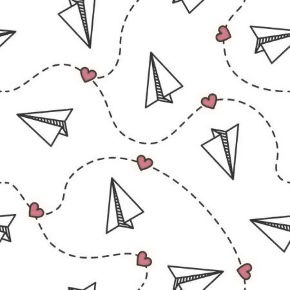
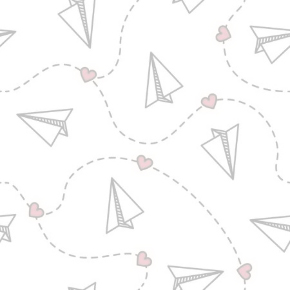
welcome screen, color pallete fully working

diff --git a/js/main.js b/js/main.js
@@ -6,6 +6,7 @@ var brushSize = "10";
 var selectedColor = "black";
 var brushType = "Squared";
 var mybrush = [brushSize, selectedColor, brushType];
+var blockingDiv = document.getElementById("blockingDiv");
 
 
 paintapp.start = function() {
@@ -13,6 +14,8 @@ paintapp.start = function() {
 };
 
 paintapp.bindMenuActions = function() {
+    var paintButton = document.getElementById("paint");
+    paintButton.addEventListener("click", paintapp.paintButton)
     var undo = document.getElementById("undo");
     undo.addEventListener("click", paintapp.undo);
     var redo = document.getElementById("redo");
@@ -49,31 +52,92 @@ paintapp.bindMenuActions = function() {
 
     // ---------------------------------
     var color1 = document.getElementById("color1");
-    color1.addEventListener("click", paintapp.color(this.id))
+    color1.addEventListener("click", paintapp.color)
+
+    var color2 = document.getElementById("color2");
+    color2.addEventListener("click", paintapp.color)
+
+    var color3 = document.getElementById("color3");
+    color3.addEventListener("click", paintapp.color)
+
+    var color4 = document.getElementById("color4");
+    color4.addEventListener("click", paintapp.color)
+
+    var color5 = document.getElementById("color5");
+    color5.addEventListener("click", paintapp.color)
+
+    var color6 = document.getElementById("color6");
+    color6.addEventListener("click", paintapp.color)
+
+    var color7 = document.getElementById("color7");
+    color7.addEventListener("click", paintapp.color)
+
+    var color8 = document.getElementById("color8");
+    color8.addEventListener("click", paintapp.color)
+
+    var color9 = document.getElementById("color9");
+    color9.addEventListener("click", paintapp.color)
+
+    var color10 = document.getElementById("color10");
+    color10.addEventListener("click", paintapp.color)
+
+    var color11 = document.getElementById("color11");
+    color11.addEventListener("click", paintapp.color)
+
+    var color12 = document.getElementById("color12");
+    color12.addEventListener("click", paintapp.color)
+
+    var color13 = document.getElementById("color13");
+    color13.addEventListener("click", paintapp.color)
+
+    var color14 = document.getElementById("color14");
+    color14.addEventListener("click", paintapp.color)
+
+    var color15 = document.getElementById("color15");
+    color15.addEventListener("click", paintapp.color)
+
+    var color16 = document.getElementById("color16");
+    color16.addEventListener("click", paintapp.color)
+
+    var color17 = document.getElementById("color17");
+    color17.addEventListener("click", paintapp.color)
+
+    var color18 = document.getElementById("color18");
+    color18.addEventListener("click", paintapp.color)
+
+    var color19 = document.getElementById("color19");
+    color19.addEventListener("click", paintapp.color)
+
+    var color20 = document.getElementById("color20");
+    color20.addEventListener("click", paintapp.color)
 
 };
+
+paintapp.paintButton = function() {
+    blockingDiv.style.display = "none";
+    // delay it 3 seconds?
+}
+
 paintapp.draw = function() {
     var newDiv = document.createElement("div");
     newDiv.style.backgroundColor = selectedColor;
     newDiv.style.width = "10px";
     newDiv.style.height = "10px";
+    newDiv.style.opacity = 1;
     canvas.appendChild(newDiv);
 }
 
-paintapp.color = function(someID) {
-    var thisButton = document.getElementById(someID);
-    console.log(thisButton);
-    console.log("hola");
-    var target = document.getElementsByClassName("circle");
-    for (var i = 0; i < target.length; i++) {
-        if (target[i].id !== someID)
-            target[i].style.opacity = .7;
+paintapp.color = function(event) {
+    var thisButton = document.getElementById(event.target.id);
+    thisButton.style.opacity = 1;
+    var style = getComputedStyle(thisButton);
+    var backgroundColor = style.backgroundColor;
+    selectedColor = backgroundColor;
+    var loopForOpacity = document.getElementsByClassName("circle");
+    for (var i = 0; i < loopForOpacity.length; i++) {
+        if (loopForOpacity[i].id !== event.target.id)
+            loopForOpacity[i].style.opacity = .7;
     }
-
-    // $(".circle").css("opacity", 1);
-    // thisButton.style.opacity = 1;
-    // selectedColor = thisButton.style.backgroundColor;
-    // console.log(selectedColor)
 }
 
 paintapp.brushsize = function() {
@@ -92,10 +156,10 @@ paintapp.save = function() {
     localStorage.setItem(file, fileName);
 };
 paintapp.load = function() {
-    var load = prompt("Please enter the name of your saved file");
-    var inputName = localStorage.getItem(loadName);
+    var loadfile = prompt("Please enter the name of your saved file");
+    var inputName = localStorage.getItem(loadfile);
     if (inputName != null) {
-        canvas.innerHTML = localStorage.getItem(loadName);
+        canvas.innerHTML = localStorage.getItem(loadfile);
     } else {
         alert("Invalid name");
         load();

diff --git a/Paint.html b/Paint.html
@@ -23,7 +23,7 @@
     <!--BOOTSTRAP 4-->
 
     <!--FONTS-->
-    <link href="https://fonts.googleapis.com/css?family=Raleway:400,500,600,800&display=swap" rel="stylesheet">
+    <link href="https://fonts.googleapis.com/css?family=Fredoka+One&display=swap" rel="stylesheet">
     <!--FONTS-->
 
     <!--CSS-->
@@ -33,7 +33,11 @@
 </head>
 
 
-<body>
+<body class="bkg-primary">
+    <div style="display:visible" id="blockingDiv">
+        <button id="paint">PAINT!</button>
+    </div>
+
     <div class="container-flex">
         <!-------------------------TOOL PALLETTE ------------------------->
 
@@ -86,21 +90,23 @@
 
         <!------------------------- CANVAS -------------------------->
         <!-- gral background -->
-        <div class="padding5px bkg-primary text-center d-flex align-items-center justify-content-center">
-            <div id="canvas">
 
+        <div class="row padding5px text-center justify-content-center align-items-center">
+            <div class="col-12 d-flex justify-content-center align-items-center padding5px">
+                <div id="canvas">
+                </div>
             </div>
-
-
         </div>
-        <!--BOOTSTRAP JAVASCRIPT-->
-        <script src="https://code.jquery.com/jquery-3.3.1.slim.min.js" integrity="sha384-q8i/X+965DzO0rT7abK41JStQIAqVgRVzpbzo5smXKp4YfRvH+8abtTE1Pi6jizo" crossorigin="anonymous"></script>
-        <script src="https://cdnjs.cloudflare.com/ajax/libs/popper.js/1.14.7/umd/popper.min.js" integrity="sha384-UO2eT0CpHqdSJQ6hJty5KVphtPhzWj9WO1clHTMGa3JDZwrnQq4sF86dIHNDz0W1" crossorigin="anonymous"></script>
-        <script src="https://stackpath.bootstrapcdn.com/bootstrap/4.3.1/js/bootstrap.min.js" integrity="sha384-JjSmVgyd0p3pXB1rRibZUAYoIIy6OrQ6VrjIEaFf/nJGzIxFDsf4x0xIM+B07jRM" crossorigin="anonymous"></script>
-        <!--BOOTSTRAP JAVASCRIPT-->
 
-        <!--JS-->
-        <script src="./js/main.js"></script>
-        <!--JS-->
+    </div>
+    <!--BOOTSTRAP JAVASCRIPT-->
+    <script src="https://code.jquery.com/jquery-3.3.1.slim.min.js" integrity="sha384-q8i/X+965DzO0rT7abK41JStQIAqVgRVzpbzo5smXKp4YfRvH+8abtTE1Pi6jizo" crossorigin="anonymous"></script>
+    <script src="https://cdnjs.cloudflare.com/ajax/libs/popper.js/1.14.7/umd/popper.min.js" integrity="sha384-UO2eT0CpHqdSJQ6hJty5KVphtPhzWj9WO1clHTMGa3JDZwrnQq4sF86dIHNDz0W1" crossorigin="anonymous"></script>
+    <script src="https://stackpath.bootstrapcdn.com/bootstrap/4.3.1/js/bootstrap.min.js" integrity="sha384-JjSmVgyd0p3pXB1rRibZUAYoIIy6OrQ6VrjIEaFf/nJGzIxFDsf4x0xIM+B07jRM" crossorigin="anonymous"></script>
+    <!--BOOTSTRAP JAVASCRIPT-->
+
+    <!--JS-->
+    <script src="./js/main.js"></script>
+    <!--JS-->
 
 </body>

diff --git a/css/style.css b/css/style.css
@@ -32,15 +32,47 @@ html {
     background-image: url("../img/paperplane.jpg");
     background-repeat: repeat;
     overflow: auto;
-    opacity: .3
+    font-family: 'Fredoka One', cursive;
+    font-weight: 800;
+    font-size: 16px;
 }
 
 .wrapper {
-    max-width: 600px;
+    height: 70vh;
+}
+
+button {
+    width: 150px;
+    height: 150px;
+    border-radius: 50%;
+    border: 4px solid black;
+    background-color: transparent;
+    font-size: 32px;
+    color: black;
+}
+
+#blockingDiv {
+    width: 100vw;
+    height: 100vh;
+    background-color: #ffce54;
+    top: 0;
+    right: 0;
+    position: absolute;
+    z-index: 9999;
+    display: flex;
+    justify-content: center;
+    align-items: center;
+    transition: all 4s;
+}
+
+button:hover {
+    color: #d8334a;
+    border-color: #d8334a;
+    text-shadow: #000000
 }
 
 #color1 {
-    background-color: purple
+    background-color: #e5e5e5
 }
 
 #color2 {
@@ -170,8 +202,22 @@ a .fas:hover {
     width: 500px;
     height: 500px;
     background-color: white;
-    -webkit-box-shadow: 10px 10px 82px -24px rgba(0, 0, 0, 0.61);
+    opacity: 1;
+    webkit-box-shadow: 10px 10px 82px -24px rgba(0, 0, 0, 0.61);
     -moz-box-shadow: 10px 10px 82px -24px rgba(0, 0, 0, 0.61);
     box-shadow: 10px 10px 82px -24px rgba(0, 0, 0, 0.61);
-    border: 1px solid black;
+    border: 1px solid black
+}
+
+.functionfadein {
+    animation: fadein 4s cubic-bezier(0.075, 0.82, 0.165, 1) backwards
+}
+
+@keyframes fadein {
+    from {
+        opacity: 0
+    }
+    to {
+        opacity: 1
+    }
 }
